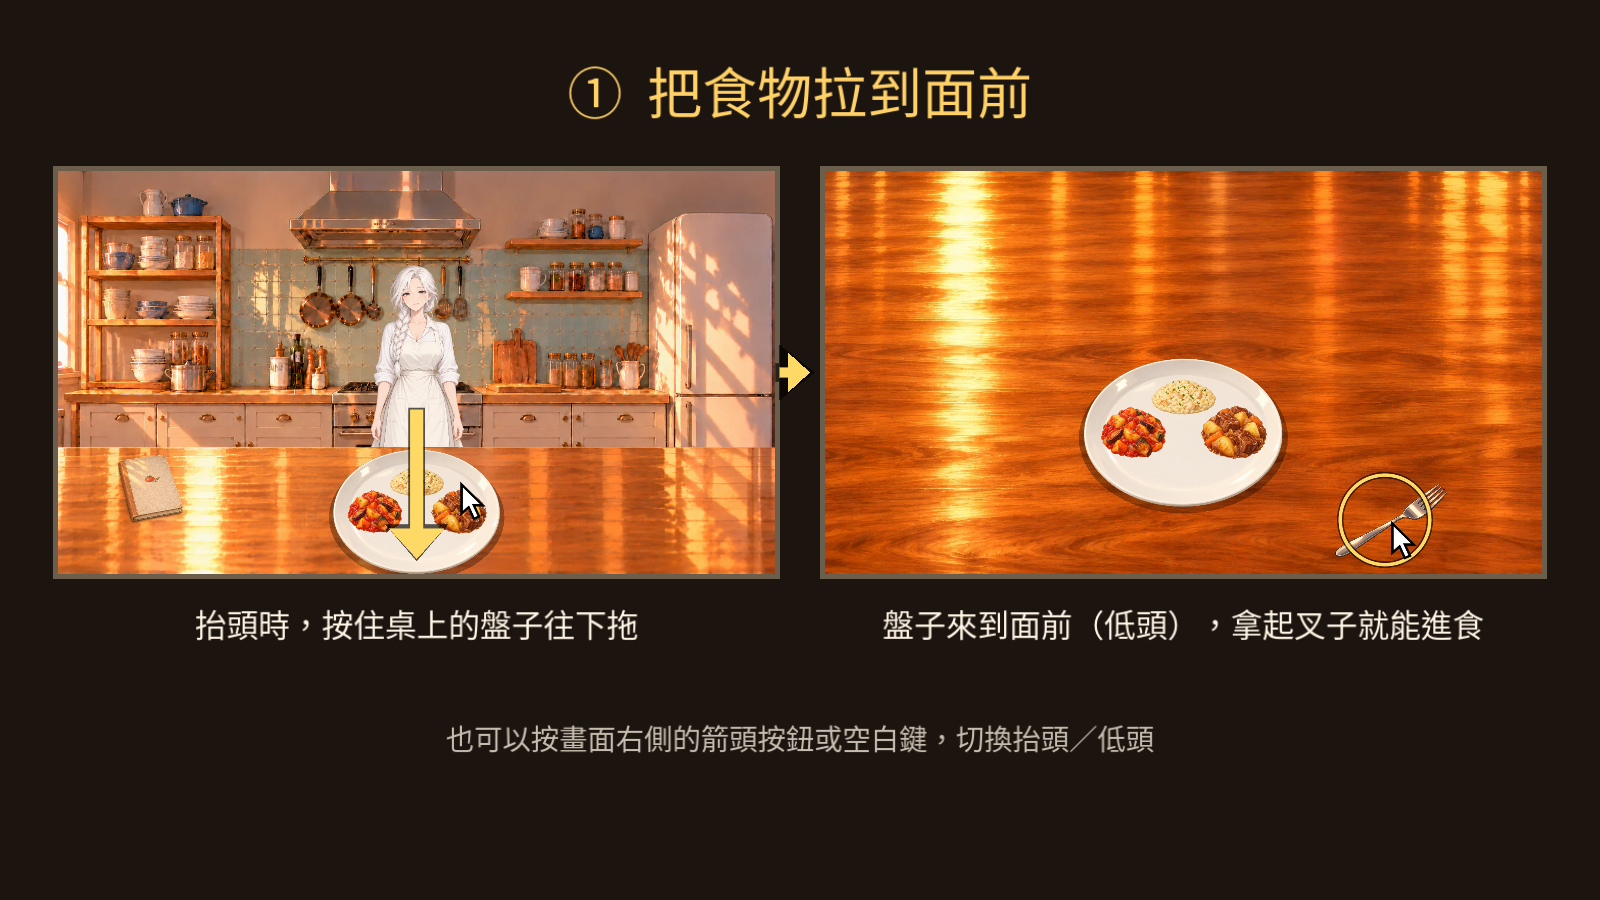
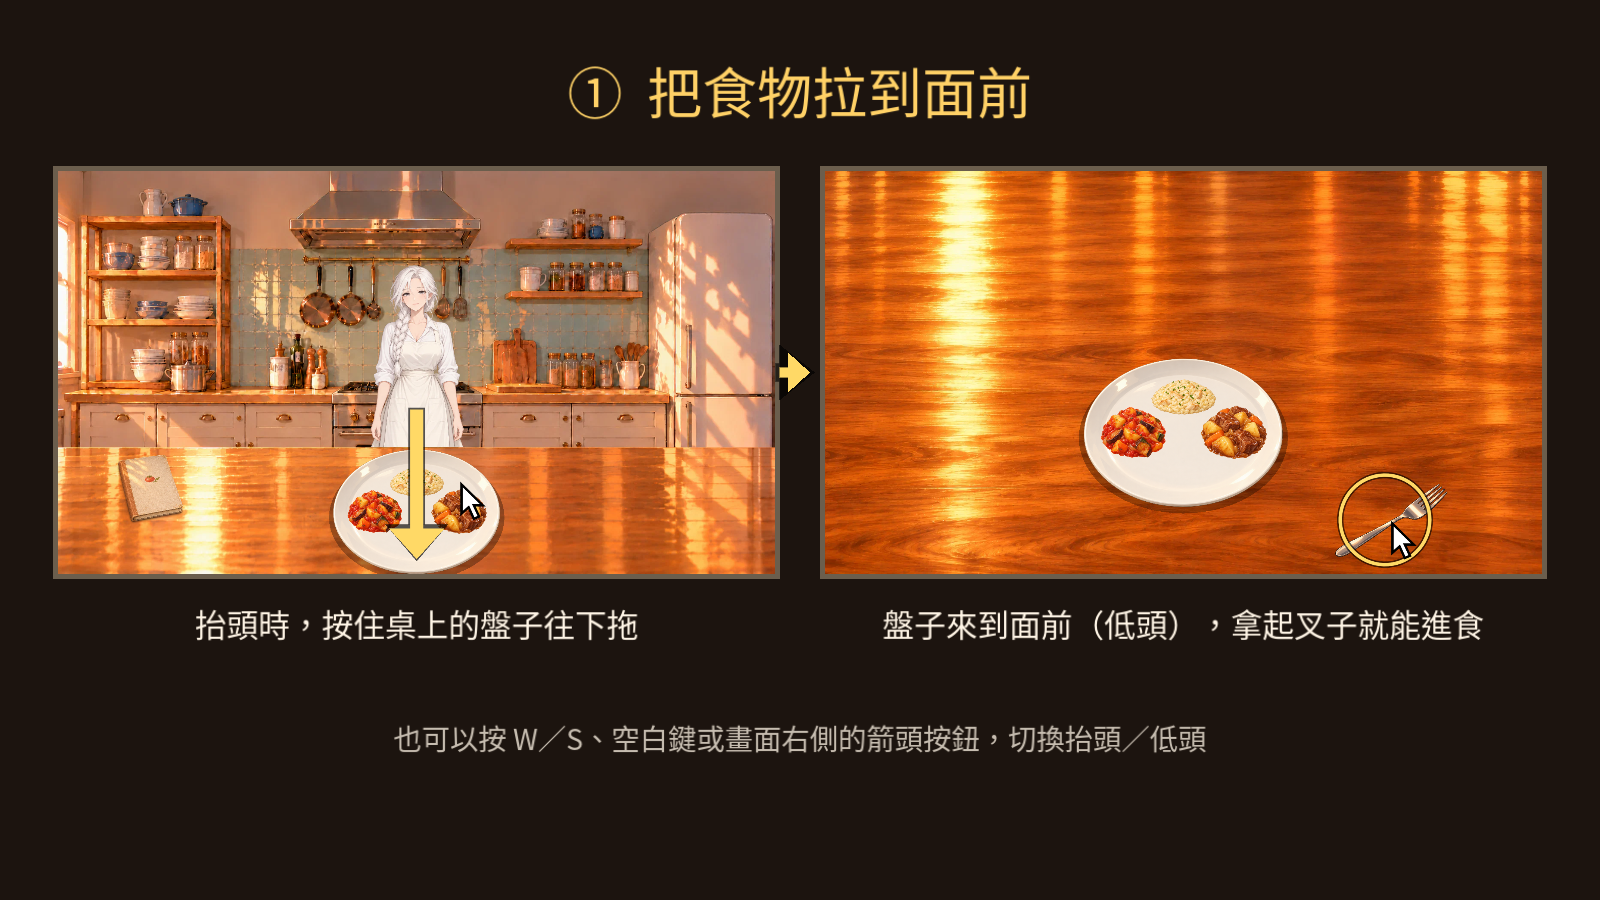
主選單新增設定（音量滑動條、開發者按鍵說明），W／S 切換視角，教學第三頁
- 設定：主音量／音樂／音效三條滑動條，存於 user://settings.cfg
- 開發者按鍵：列出 1／2／3（遊戲速度）與 T（模擬吃下過敏原）
- W 抬頭、S 低頭
- 教學新增第三頁「用 W／S 切換視角」

Changed region(s): [[0.25, 0.8089, 0.75, 0.84]]

diff --git a/README.md b/README.md
@@ -16,7 +16,7 @@
 ## 操作
 - 抬頭時按住桌上的盤子往下拖，把盤子拉到面前；低頭後拿起叉子進食。
 - 低頭時滑鼠靠近盤子左側，按住往右拖可推開盤子。
-- 右側箭頭按鈕或空白鍵切換抬頭／低頭；左上角筆記本記錄不能吃的東西。
+- W／S 抬頭／低頭（空白鍵或右側箭頭按鈕也可切換）；左上角筆記本記錄不能吃的東西。
 
 ## 結構
 - `scripts/`：遊戲腳本（主要流程在 `game.gd`）
